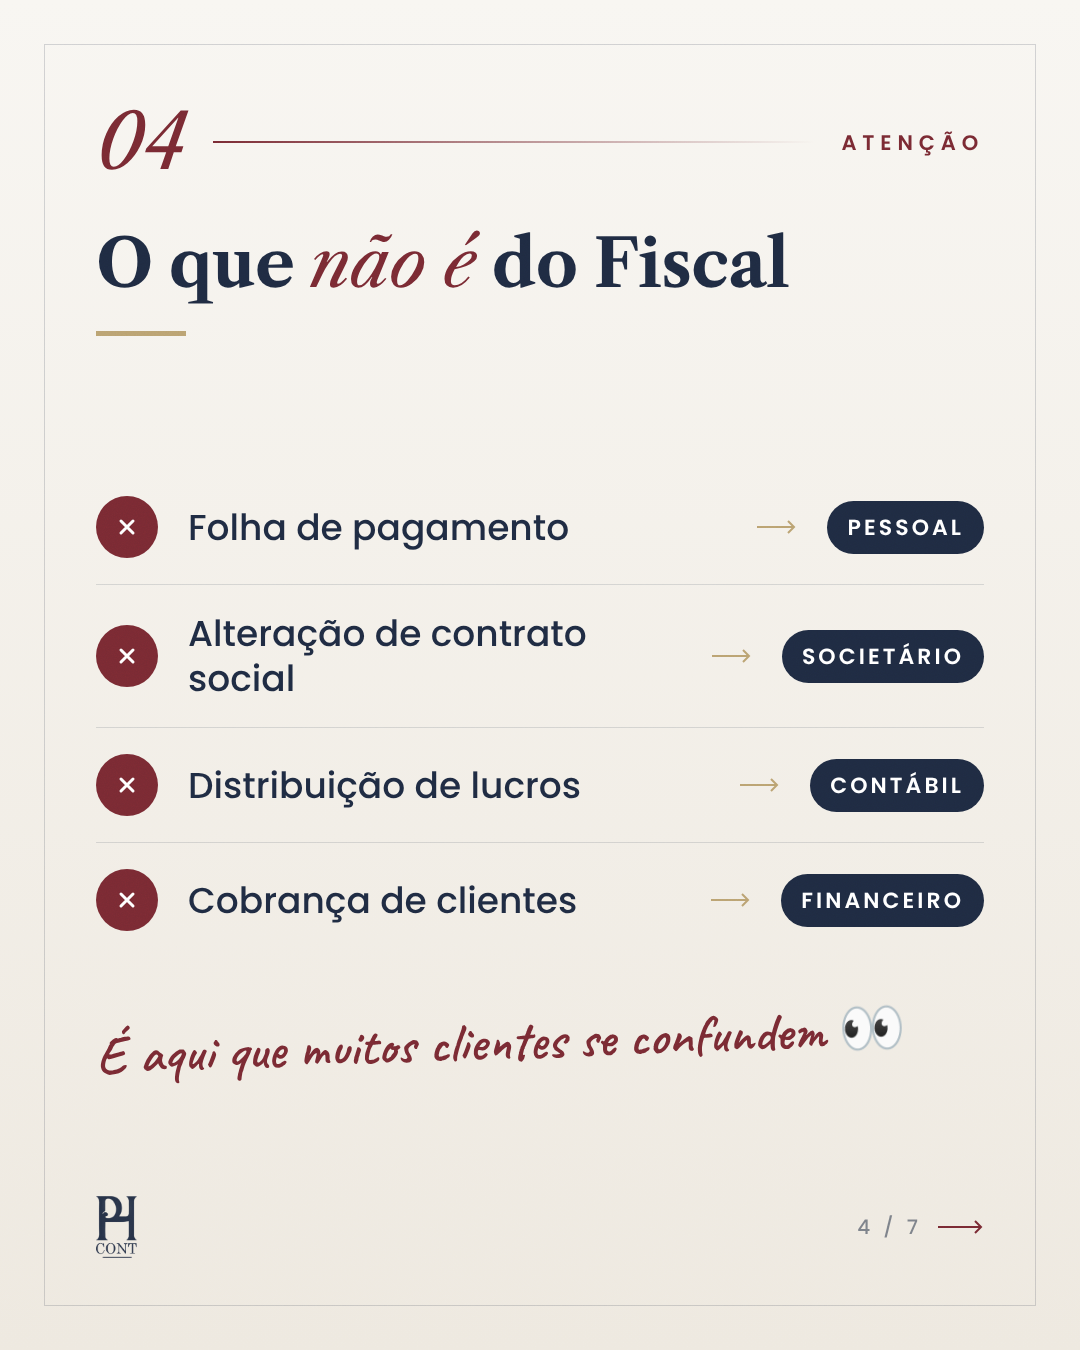
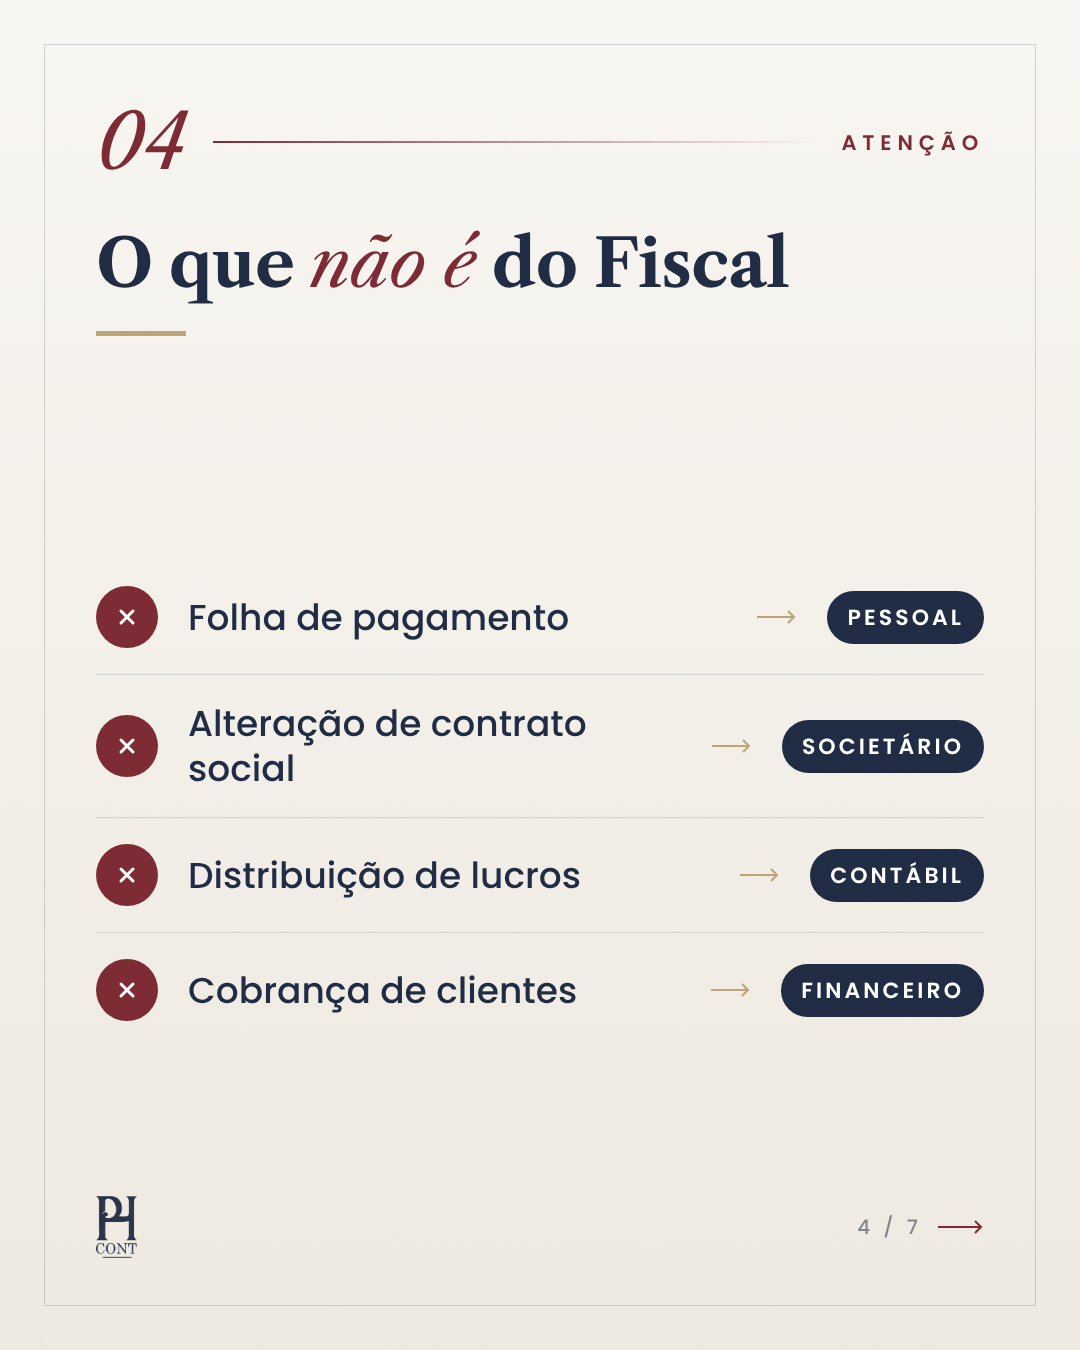
PHcont carrossel Setor Fiscal: capa com mais do corpo, sem frase manuscrita e sem emoji
Claude-Session: https://claude.ai/code/session_012bVqEb5M2bw1tnz2qQiCDo

Changed region(s): [[0.0917, 0.3422, 0.9167, 0.8089]]

diff --git a/phcont/carrossel/setor_fiscal/carrossel.html b/phcont/carrossel/setor_fiscal/carrossel.html
@@ -1,7 +1,7 @@
 <!doctype html>
 <html lang="pt-BR"><head><meta charset="utf-8">
 <style>
-@import url('https://fonts.googleapis.com/css2?family=Libre+Caslon+Text:ital,wght@0,400;0,700;1,400;1,700&family=Poppins:wght@400;500;600;700&family=Caveat:wght@600&display=swap');
+@import url('https://fonts.googleapis.com/css2?family=Libre+Caslon+Text:ital,wght@0,400;0,700;1,400;1,700&family=Poppins:wght@400;500;600;700&display=swap');
 *{margin:0;padding:0;box-sizing:border-box}
 html,body{width:1080px;height:1350px;overflow:hidden;background:#0b1529}
 :root{--marinho:#1F2B42;--fundo1:#13213f;--fundo2:#070d1c;--bordo:#7A2A33;--bordo2:#A33A46;--ouro:#C9AD6E;--ouro2:#BBA372;--branco:#F7F5F6;--tinta:#0B1426}
@@ -47,20 +47,20 @@ html,body{width:1080px;height:1350px;overflow:hidden;background:#0b1529}
 .chip{font-size:21px;font-weight:600;letter-spacing:.12em;color:var(--ouro);border:1.5px solid rgba(201,173,110,.6);border-radius:40px;padding:6px 16px}
 .nota{position:absolute;left:96px;right:96px;font-size:34px;line-height:1.38;font-weight:400;color:rgba(247,245,246,.86)}
 .nota b{color:var(--ouro);font-weight:600}
-.mao{font-family:Caveat,cursive;font-weight:600;color:var(--ouro)}
 </style></head>
 <body>
 
 <!-- 1: CAPA -->
 <section class="s" id="s1">
-  <div style="position:absolute;inset:0;background:url(foto1.png) center 22%/cover"></div>
-  <div style="position:absolute;inset:0;background:linear-gradient(180deg,rgba(9,16,32,.25) 0%,rgba(9,16,32,0) 22%,rgba(9,16,32,0) 46%,rgba(11,19,38,.78) 62%,rgba(9,16,32,.96) 76%,#080e1d 100%)"></div>
-  <div style="position:absolute;left:84px;right:84px;top:888px">
+  <!-- foto mais aberta (corpo inteiro até o quadril): fundo com a própria foto desfocada + foto nítida com borda esfumada -->
+  <div style="position:absolute;inset:-40px;background:url(foto1.png) 20% 30%/cover;filter:blur(22px) brightness(.8)"></div>
+  <img src="foto1.png" style="position:absolute;right:-10px;top:-40px;height:1560px;-webkit-mask-image:linear-gradient(90deg,transparent 0,#000 14%)">
+  <div style="position:absolute;inset:0;background:linear-gradient(180deg,rgba(9,16,32,.2) 0%,rgba(9,16,32,0) 18%,rgba(9,16,32,0) 56%,rgba(11,19,38,.75) 69%,rgba(9,16,32,.95) 80%,#080e1d 100%)"></div>
+  <div style="position:absolute;left:84px;right:84px;top:960px">
     <div class="rot" style="font-size:24px">SETOR FISCAL</div>
     <div style="margin-top:20px;font-family:'Libre Caslon Text',serif;font-weight:700;font-size:72px;line-height:1.08;letter-spacing:-.01em">Você sabe o que <em style="font-style:italic;font-weight:400;color:var(--ouro)">realmente resolvemos aqui?</em></div>
     <div class="traco"></div>
   </div>
-  <div class="pag" style="position:absolute;right:84px;bottom:72px">ARRASTE <svg viewBox="0 0 46 14"><path d="M0 7h43M37 1l6 6-6 6" stroke="#C9AD6E" stroke-width="2" fill="none"/></svg></div>
 </section>
 
 <!-- 2: O QUE É -->
@@ -96,7 +96,7 @@ html,body{width:1080px;height:1350px;overflow:hidden;background:#0b1529}
 <section class="s claro" id="s4"><div class="moldura"></div>
   <div class="topo"><div class="num">04</div><div class="fio"></div><div class="rot">ATENÇÃO</div></div>
   <div class="tit">O que <em>não é</em> do Fiscal<div class="traco"></div></div>
-  <div class="lista" style="top:470px">
+  <div class="lista" style="top:560px">
     <style>
       .claro .item{border-bottom-color:rgba(31,43,66,.14)}
       .nao{width:62px;height:62px;flex:none;border-radius:50%;background:var(--bordo);display:grid;place-items:center}
@@ -111,7 +111,6 @@ html,body{width:1080px;height:1350px;overflow:hidden;background:#0b1529}
     <div class="item"><div class="nao"><svg viewBox="0 0 24 24"><path d="M6 6l12 12M18 6L6 18"/></svg></div><div class="txt">Distribuição de lucros</div><svg class="seta" viewBox="0 0 40 14"><path d="M0 7h37M31 1l6 6-6 6" stroke="#BBA372" stroke-width="2" fill="none"/></svg><div class="setor">CONTÁBIL</div></div>
     <div class="item"><div class="nao"><svg viewBox="0 0 24 24"><path d="M6 6l12 12M18 6L6 18"/></svg></div><div class="txt">Cobrança de clientes</div><svg class="seta" viewBox="0 0 40 14"><path d="M0 7h37M31 1l6 6-6 6" stroke="#BBA372" stroke-width="2" fill="none"/></svg><div class="setor">FINANCEIRO</div></div>
   </div>
-  <div class="mao" style="position:absolute;left:96px;right:96px;top:1010px;font-size:54px;line-height:1.1;color:var(--bordo);transform:rotate(-2deg)">É aqui que muitos clientes se confundem <span style="font-family:Poppins">👀</span></div>
   <div class="rodape"><img src="logo_marinho_sem_texto.png"><div class="pag">4 / 7 <svg viewBox="0 0 46 14"><path d="M0 7h43M37 1l6 6-6 6" stroke="#7A2A33" stroke-width="2" fill="none"/></svg></div></div>
 </section>
 
